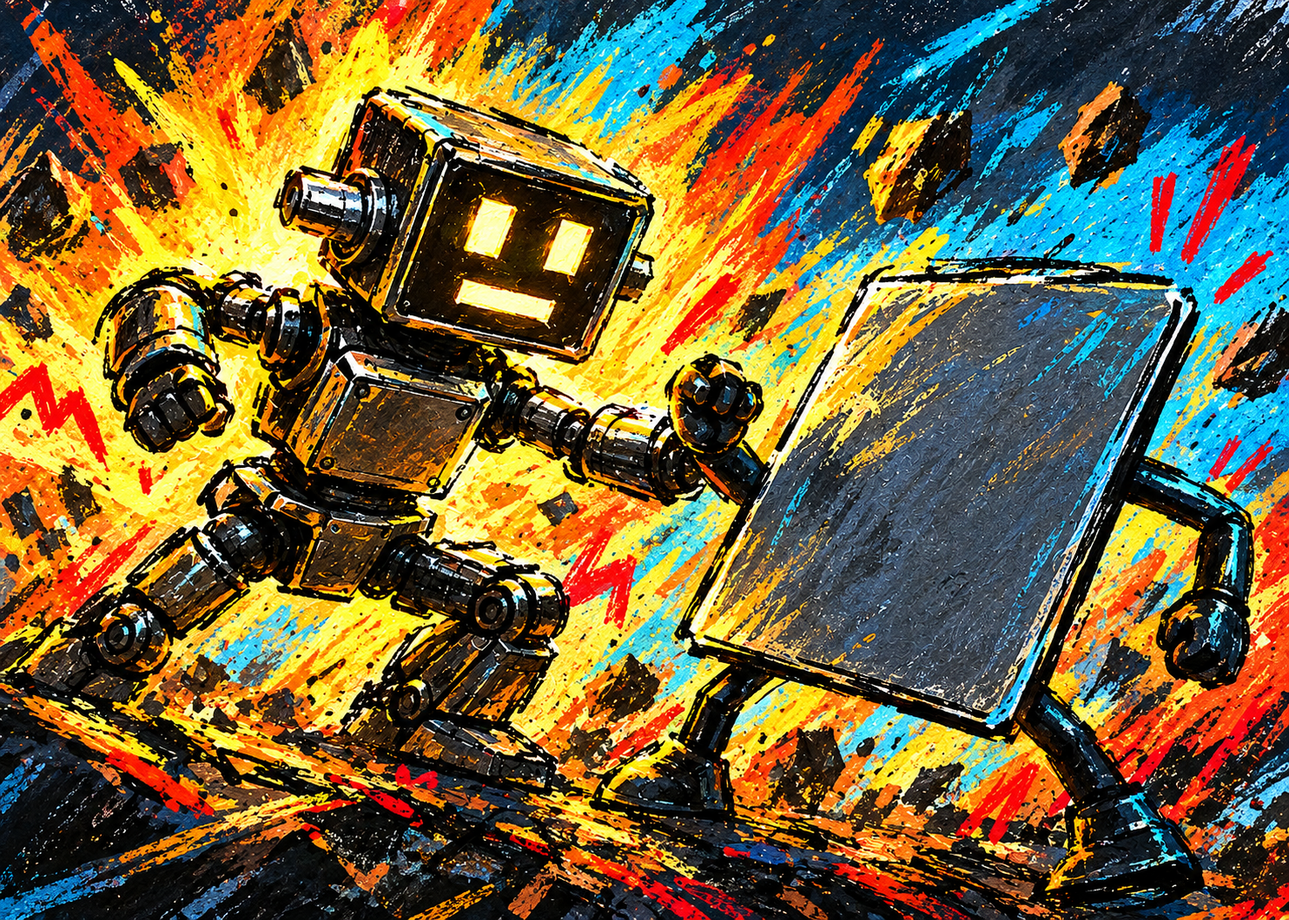
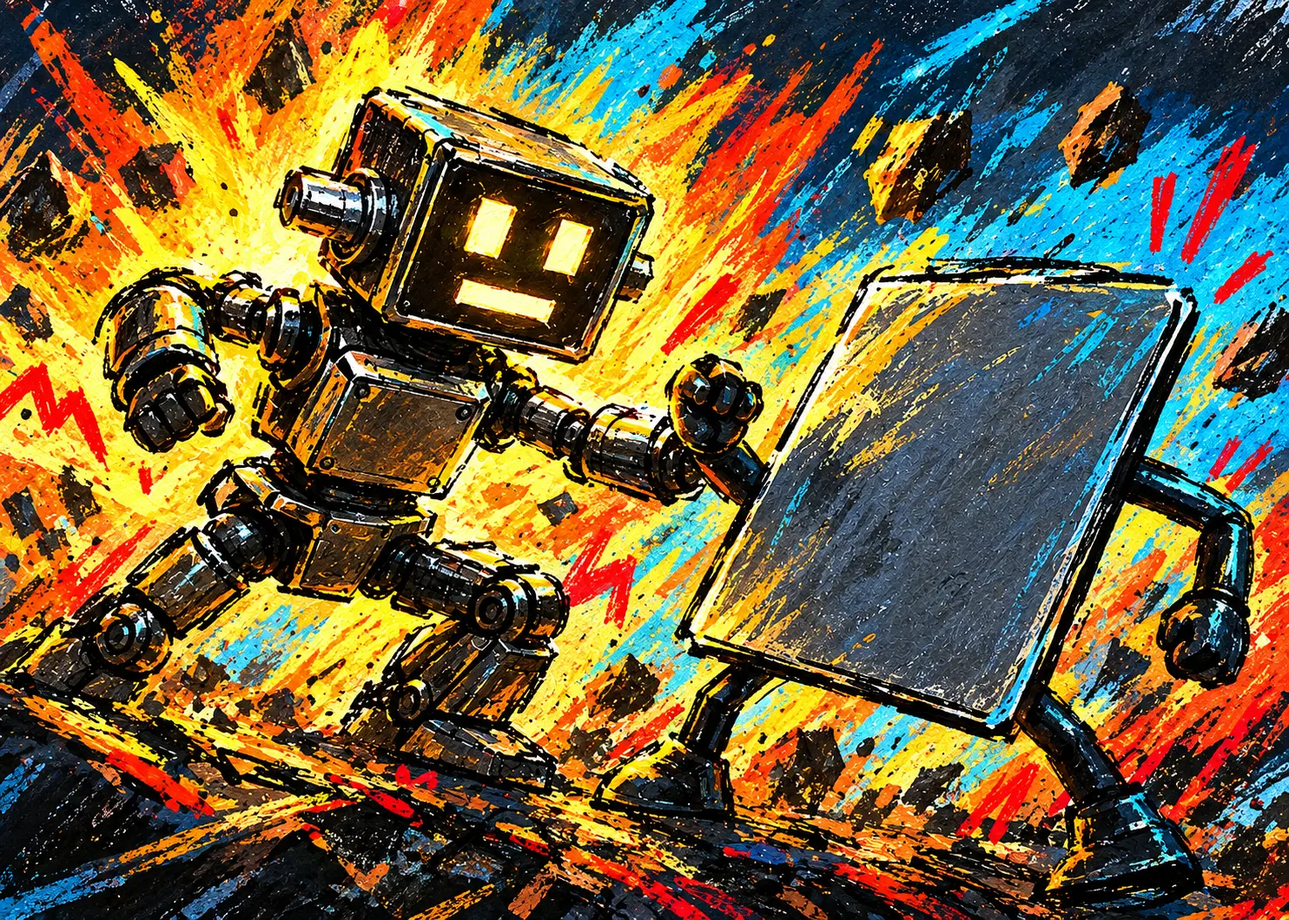
optimized pictures to load faster

diff --git a/index.html b/index.html
@@ -12,8 +12,8 @@
 
       <!-- Preload critical assets -->
       <link rel="preload" href="/imports/robot.svg" as="image" type="image/svg+xml" />
-      <link rel="preload" href="/imports/mentor.webp" as="image" type="image/webp" />
-      <link rel="preload" href="/imports/bulb.webp" as="image" type="image/webp" />
+      <link rel="preload" href="/imports/mentor.png" as="image" type="image/png" />
+      <link rel="preload" href="/imports/bulb.png" as="image" type="image/png" />
 
       <!-- Preload simulation picker images -->
       <link rel="preload" href="/imports/simulation_1.webp" as="image" type="image/webp" />

diff --git a/src/features/work-ticket/components/DialogueBlock.tsx b/src/features/work-ticket/components/DialogueBlock.tsx
@@ -16,8 +16,8 @@ import userScenario4 from '../../../imports/user-scenario-4.svg?url'
 
 // Use public folder paths for images
 const imgRobot = '/imports/robot.svg'
-const imgMentor = '/imports/mentor.webp'
-const imgBombilla = '/imports/bulb.webp'
+const imgMentor = '/imports/mentor.png'
+const imgBombilla = '/imports/bulb.png'
 
 const badgeTextStyle: CSSProperties = {
   fontFamily: "'Lato', sans-serif",
